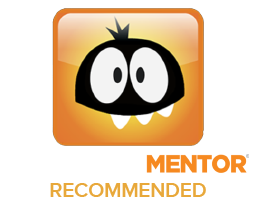
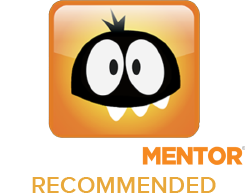
workflow video

Changed region(s): [[0.1694, 0.0, 0.9879, 0.8571], [0.1129, 0.8878, 0.875, 1.0], [0.3387, 0.4286, 0.3669, 0.4592]]

diff --git a/prod/www/js/utils-main.js b/prod/www/js/utils-main.js
@@ -414,6 +414,7 @@ function activateVideoPlayer(streams) {
 function activateVideoHero(streams) {
 	const player = document.getElementById('heroPlayer');
 	const video = document.getElementById('heroVideo');
+	const gradient = document.getElementById('heroGradient');
 	
 	let hls;
 	let currentResolution = 480;
@@ -455,6 +456,7 @@ function activateVideoHero(streams) {
 	loadStream(initRes);
 
 	video.onclick = togglePlay;
+	gradient.onclick = togglePlay;
 
 	const observer = new IntersectionObserver(
 		entries => {

diff --git a/prod/www/css/style-main.css b/prod/www/css/style-main.css
@@ -950,12 +950,12 @@ p.attribute-desc {
 
 .hero-badges {
     display: flex;
-    gap: 16px;
+    gap: 24px;
     align-items: center;
 }
 
 .hero-badges img {
-    height: 45px;
+    height: 80px;
     width: auto;
 }
 
@@ -981,6 +981,7 @@ p.attribute-desc {
             transparent 45%
         );
     z-index: 2;
+	cursor: pointer;
 }
 
 @media(max-width:768px) {
